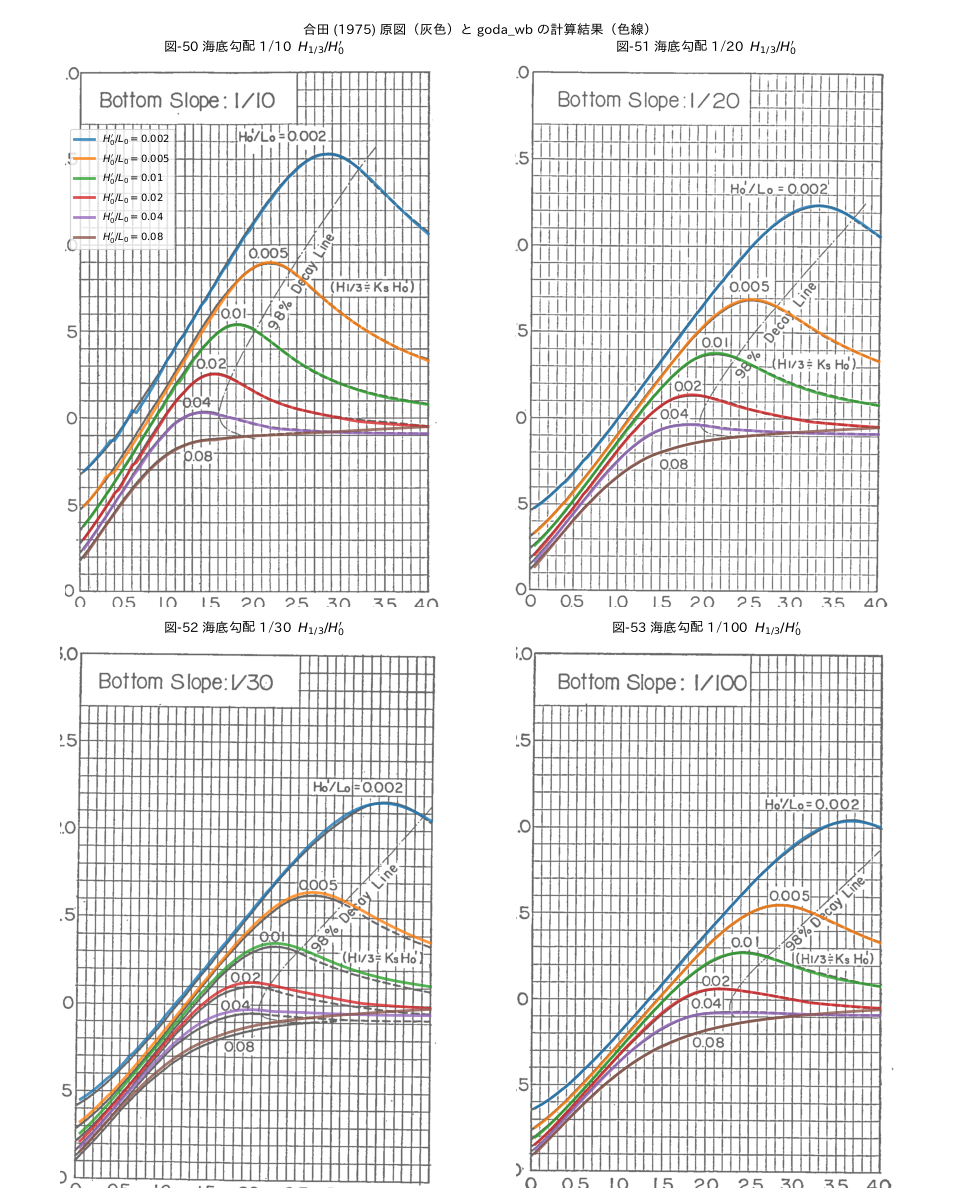
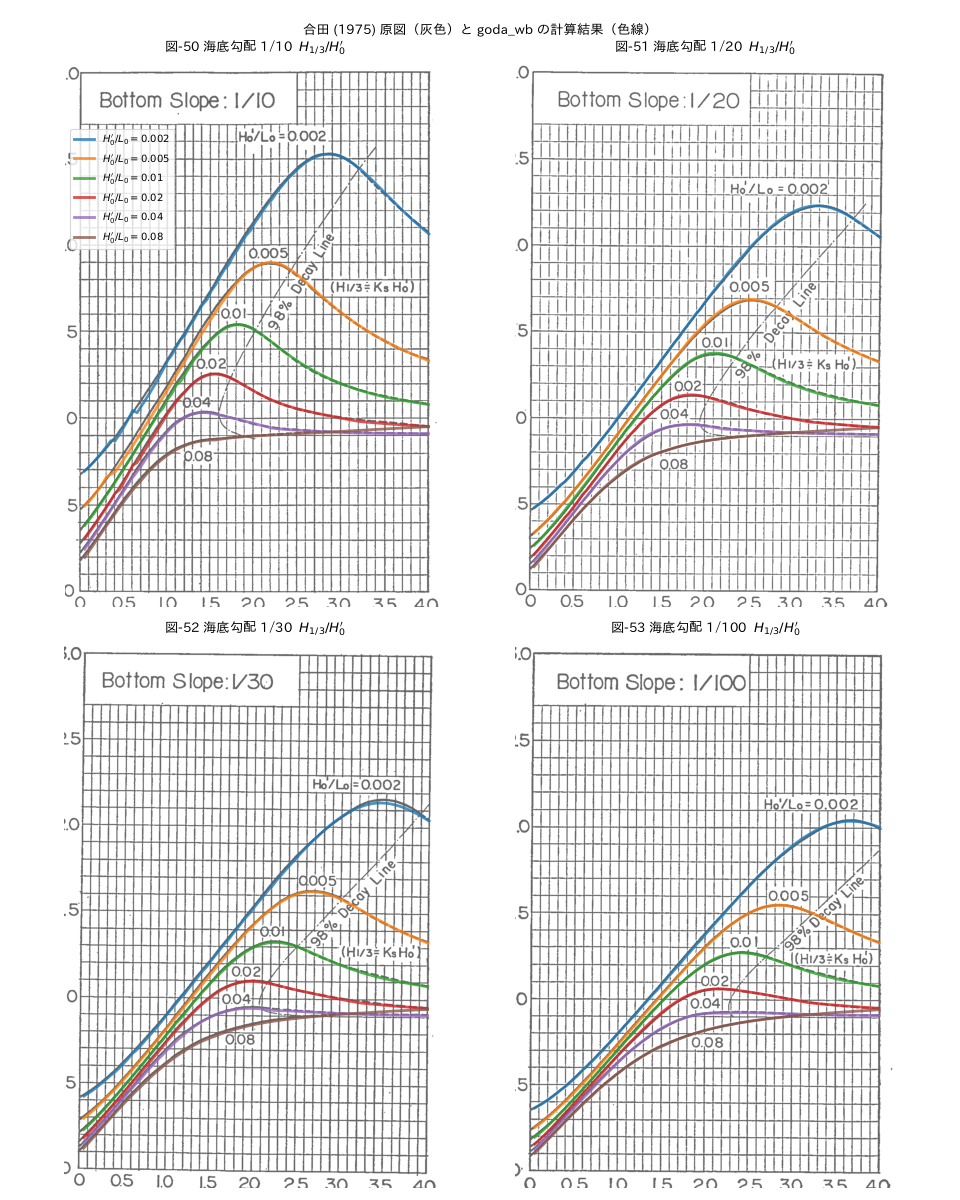
🐛 fix: 図-52 (海底勾配 1/30) を方眼基準で較正し、原図とのずれを解消
図-52 だけ図枠の下辺と縦軸の目盛が方眼より 0.033 (左)〜0.056 (右) 高く描かれており、
図枠基準で読むと曲線が約 0.02 低く見えていた。方眼から外挿した y=0 を下側の隅とし、
テストの読み取り値と比較画像を更新。

Claude-Session: https://claude.ai/code/session_01CbMPqqVfkDPAcFTg4HJZGT

diff --git a/sample/compare_goda1975.py b/sample/compare_goda1975.py
@@ -5,7 +5,8 @@
   - p.97 図-54〜57 砕波帯内の最高波高の算定図 (Hmax = H1/250)
 
 スキャン画像 (400 dpi) 上の各図の枠の四隅の画素座標を読み取り、双一次補間で
-(h/H0', H/H0') を画素座標へ変換して描画する。
+(h/H0', H/H0') を画素座標へ変換して描画する。ただし図-52 は図枠の下辺が方眼と
+ずれて描かれているため、方眼を基準に較正している。
 
     cd sample && uv run python compare_goda1975.py
 """
@@ -38,7 +39,9 @@ CHARTS = {
         "corners": [
             {"LB": (362.5, 1809.0), "RB": (1287.0, 1810.5), "LT": (364.0, 432.5), "RT": (1289.5, 430.5)},
             {"LB": (1496.5, 1810.0), "RB": (2419.0, 1816.0), "LT": (1503.5, 435.0), "RT": (2430.5, 441.5)},
-            {"LB": (338.5, 3406.5), "RB": (1262.0, 3408.0), "LT": (350.0, 2052.5), "RT": (1273.0, 2061.5)},
+            # 図-52 は図枠の下辺が方眼より 0.033 (左)〜0.056 (右) 高く描かれているため、
+            # 方眼 (0.1 間隔 45.7 px) から外挿した y=0 の位置を下側の隅とする
+            {"LB": (338.4, 3421.6), "RB": (1261.8, 3433.6), "LT": (350.0, 2052.5), "RT": (1273.0, 2061.5)},
             {"LB": (1487.0, 3418.5), "RB": (2405.0, 3424.5), "LT": (1495.5, 2056.0), "RT": (2410.5, 2063.0)},
         ],
     },

diff --git a/test/test_core.py b/test/test_core.py
@@ -283,7 +283,8 @@ def test_cal_surf_goda_deep_water_follows_rayleigh(h0l0: float) -> None:
 
 
 # 合田 (1975) 図-50〜57 から読み取った値 (海底勾配, H0'/L0, h/H0', 波高比)。
-# 各曲線のピーク付近を 400 dpi のスキャン画像から読み取った。
+# 各曲線のピーク付近を 400 dpi のスキャン画像から読み取った。図-52 は図枠の下辺が方眼と
+# ずれて描かれているため、方眼を基準に読み取った。
 # sample/compare_goda1975.py で原図と計算結果を重ねて確認できる。
 GODA1975_CHART_H13 = [
     (1 / 10, 0.002, 2.85, 2.53),
@@ -294,10 +295,10 @@ GODA1975_CHART_H13 = [
     (1 / 20, 0.005, 2.53, 1.68),
     (1 / 20, 0.01, 2.13, 1.37),
     (1 / 20, 0.02, 1.85, 1.13),
-    (1 / 30, 0.002, 3.43, 2.15),
-    (1 / 30, 0.005, 2.65, 1.60),
-    (1 / 30, 0.01, 2.23, 1.31),
-    (1 / 30, 0.02, 1.98, 1.11),
+    (1 / 30, 0.002, 3.43, 2.16),
+    (1 / 30, 0.005, 2.65, 1.63),
+    (1 / 30, 0.01, 2.23, 1.33),
+    (1 / 30, 0.02, 1.98, 1.10),
     (1 / 100, 0.002, 3.65, 2.04),
     (1 / 100, 0.005, 2.85, 1.55),
     (1 / 100, 0.01, 2.40, 1.27),

diff --git a/CLAUDE.md b/CLAUDE.md
@@ -232,7 +232,7 @@ Located in `sample/` — not part of the installable package, intended for explo
 | `check_core.py` | Basic API demonstration |
 | `check_goda.py` | Wave transformation plots across steepness values |
 | `check_shuto.py` | Shoaling coefficient curves (`shoal()`) for comparison with Shuto's shoaling chart |
-| `compare_goda1975.py` | Overlays `H1_3` / `H1_250` on Goda (1975) Figs. 50–57 using calibrated chart-frame corners; writes `goda1975/compare_*.png` |
+| `compare_goda1975.py` | Overlays `H1_3` / `H1_250` on Goda (1975) Figs. 50–57 using calibrated chart-frame corners; writes `goda1975/compare_*.png`. Fig. 52 (slope 1/30) is calibrated on its grid instead, because its bottom frame line and y labels are drawn 0.03–0.06 too high relative to the grid the curves were plotted on |
 | `run.py` | Exploratory notebook-style plots (currently references undefined names and does not run as-is) |
 | `draw_on_image.py` / `draw_on_image2.py` | Overlay results on reference images |
 

diff --git a/README.md b/README.md
@@ -140,7 +140,7 @@ cd sample && uv run python compare_goda1975.py
 
 ![最高波高の算定図との比較](sample/goda1975/compare_H1_250.png)
 
-各曲線のピーク付近の値は原図と 0.03 以内で一致し、テスト（`test_cal_surf_goda_matches_goda1975_chart_*`）でも確認しています。
+図-52（海底勾配 1/30）は図枠の下辺と縦軸の目盛が方眼より 0.03〜0.06 高く描かれているため、方眼を基準に重ねています。各曲線のピーク付近の値は原図と 0.03 以内で一致し、テスト（`test_cal_surf_goda_matches_goda1975_chart_*`）でも確認しています。
 
 ## 依存関係
 
